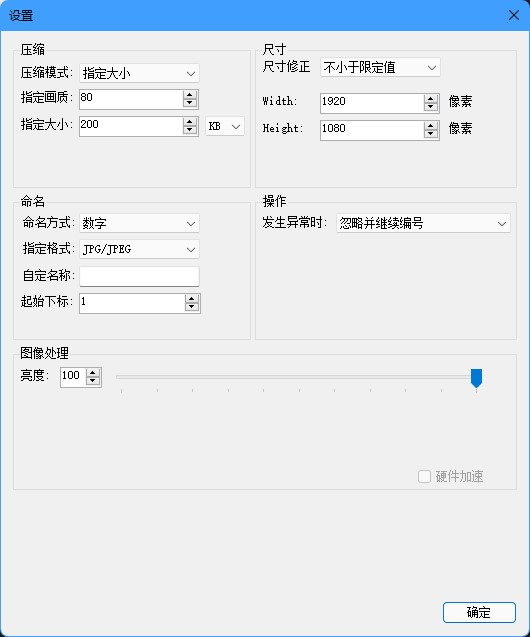
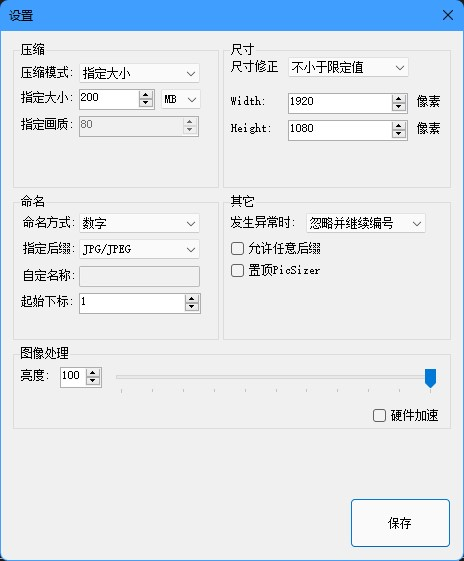
1. 更新README

diff --git a/PicSizer/Forms/SettingForm.cs b/PicSizer/Forms/SettingForm.cs
@@ -50,9 +50,10 @@ namespace PicSizer
             numericUpDown_StartIndex.Value = Setting.StartIndex;//起始下表
             textBox_CustomRenameStr.Text = Setting.CustomRenameStr;//自定名称
 
-            //操作
+            //其它
             comboBox_DoWhenException.SelectedIndex = Setting.doWhenException.ToInt();//异常处理
             checkBox_AllowAnyExtension.Checked = Setting.AllowAnyExtension;//允许任意后缀
+            checkBox_TopMost.Checked = Info.mainForm.TopMost;//置顶
 
             //图像处理
             trackBar_Brightness.Value = Setting.brightness;//亮度
